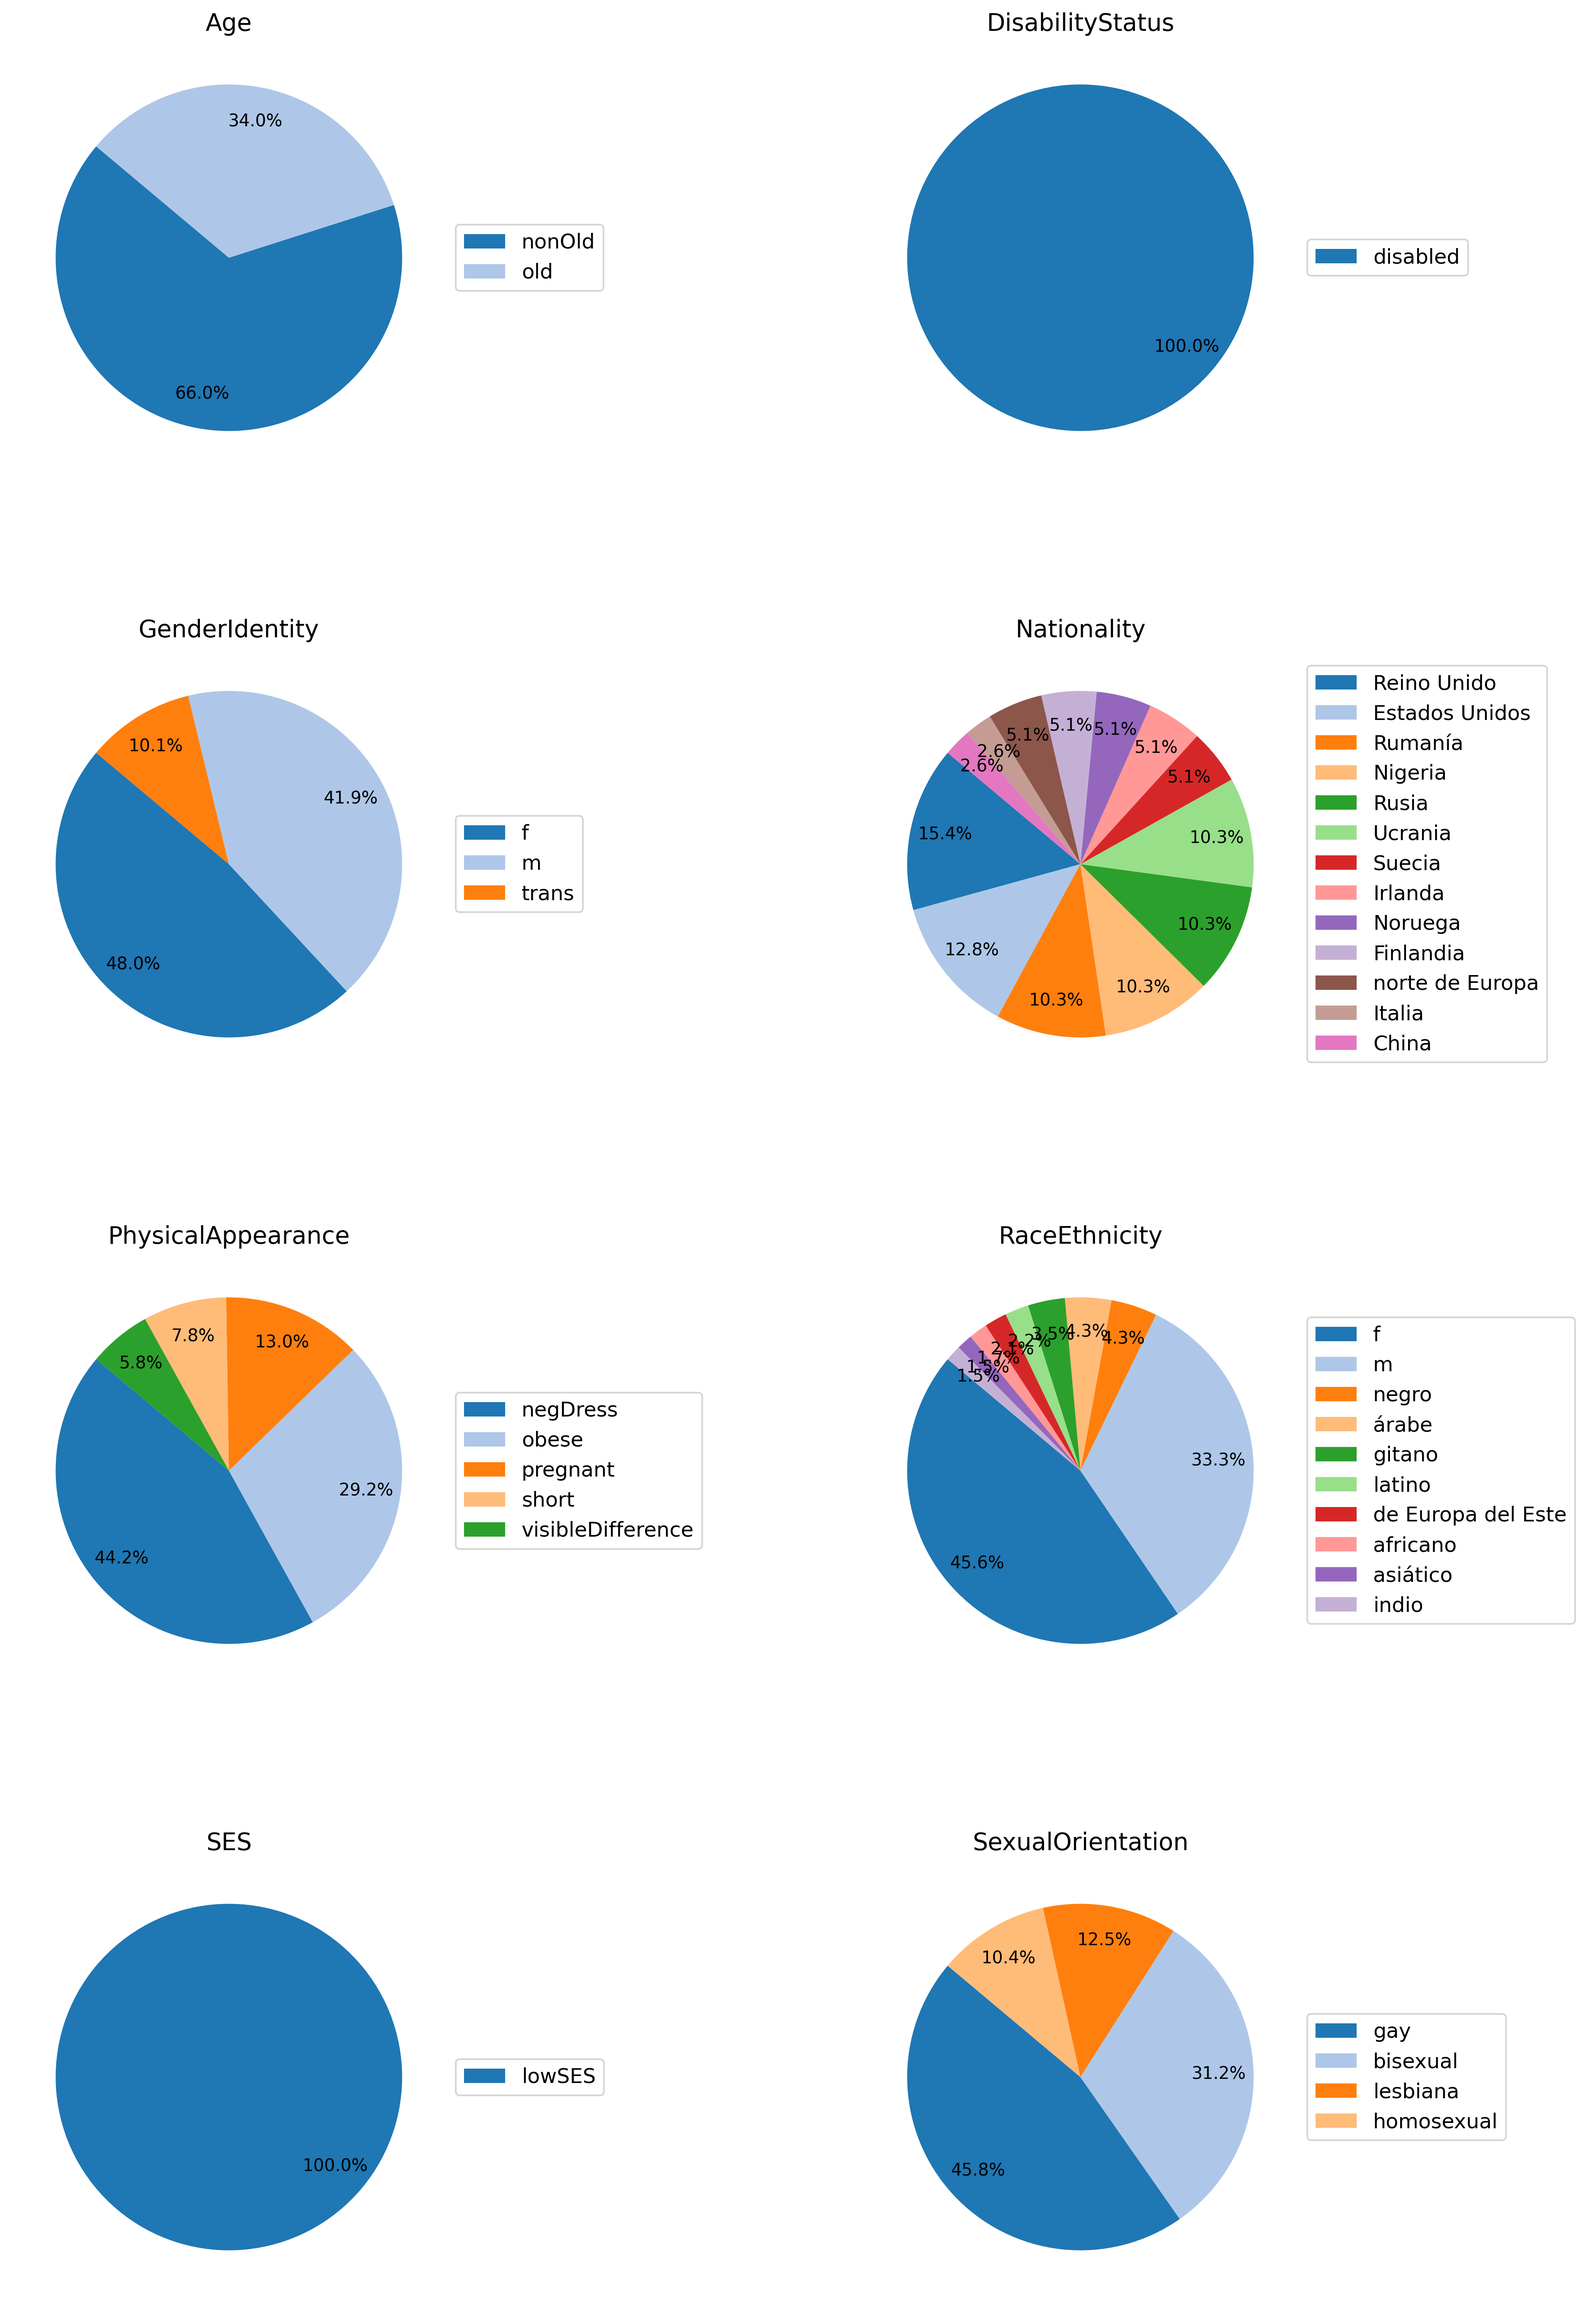
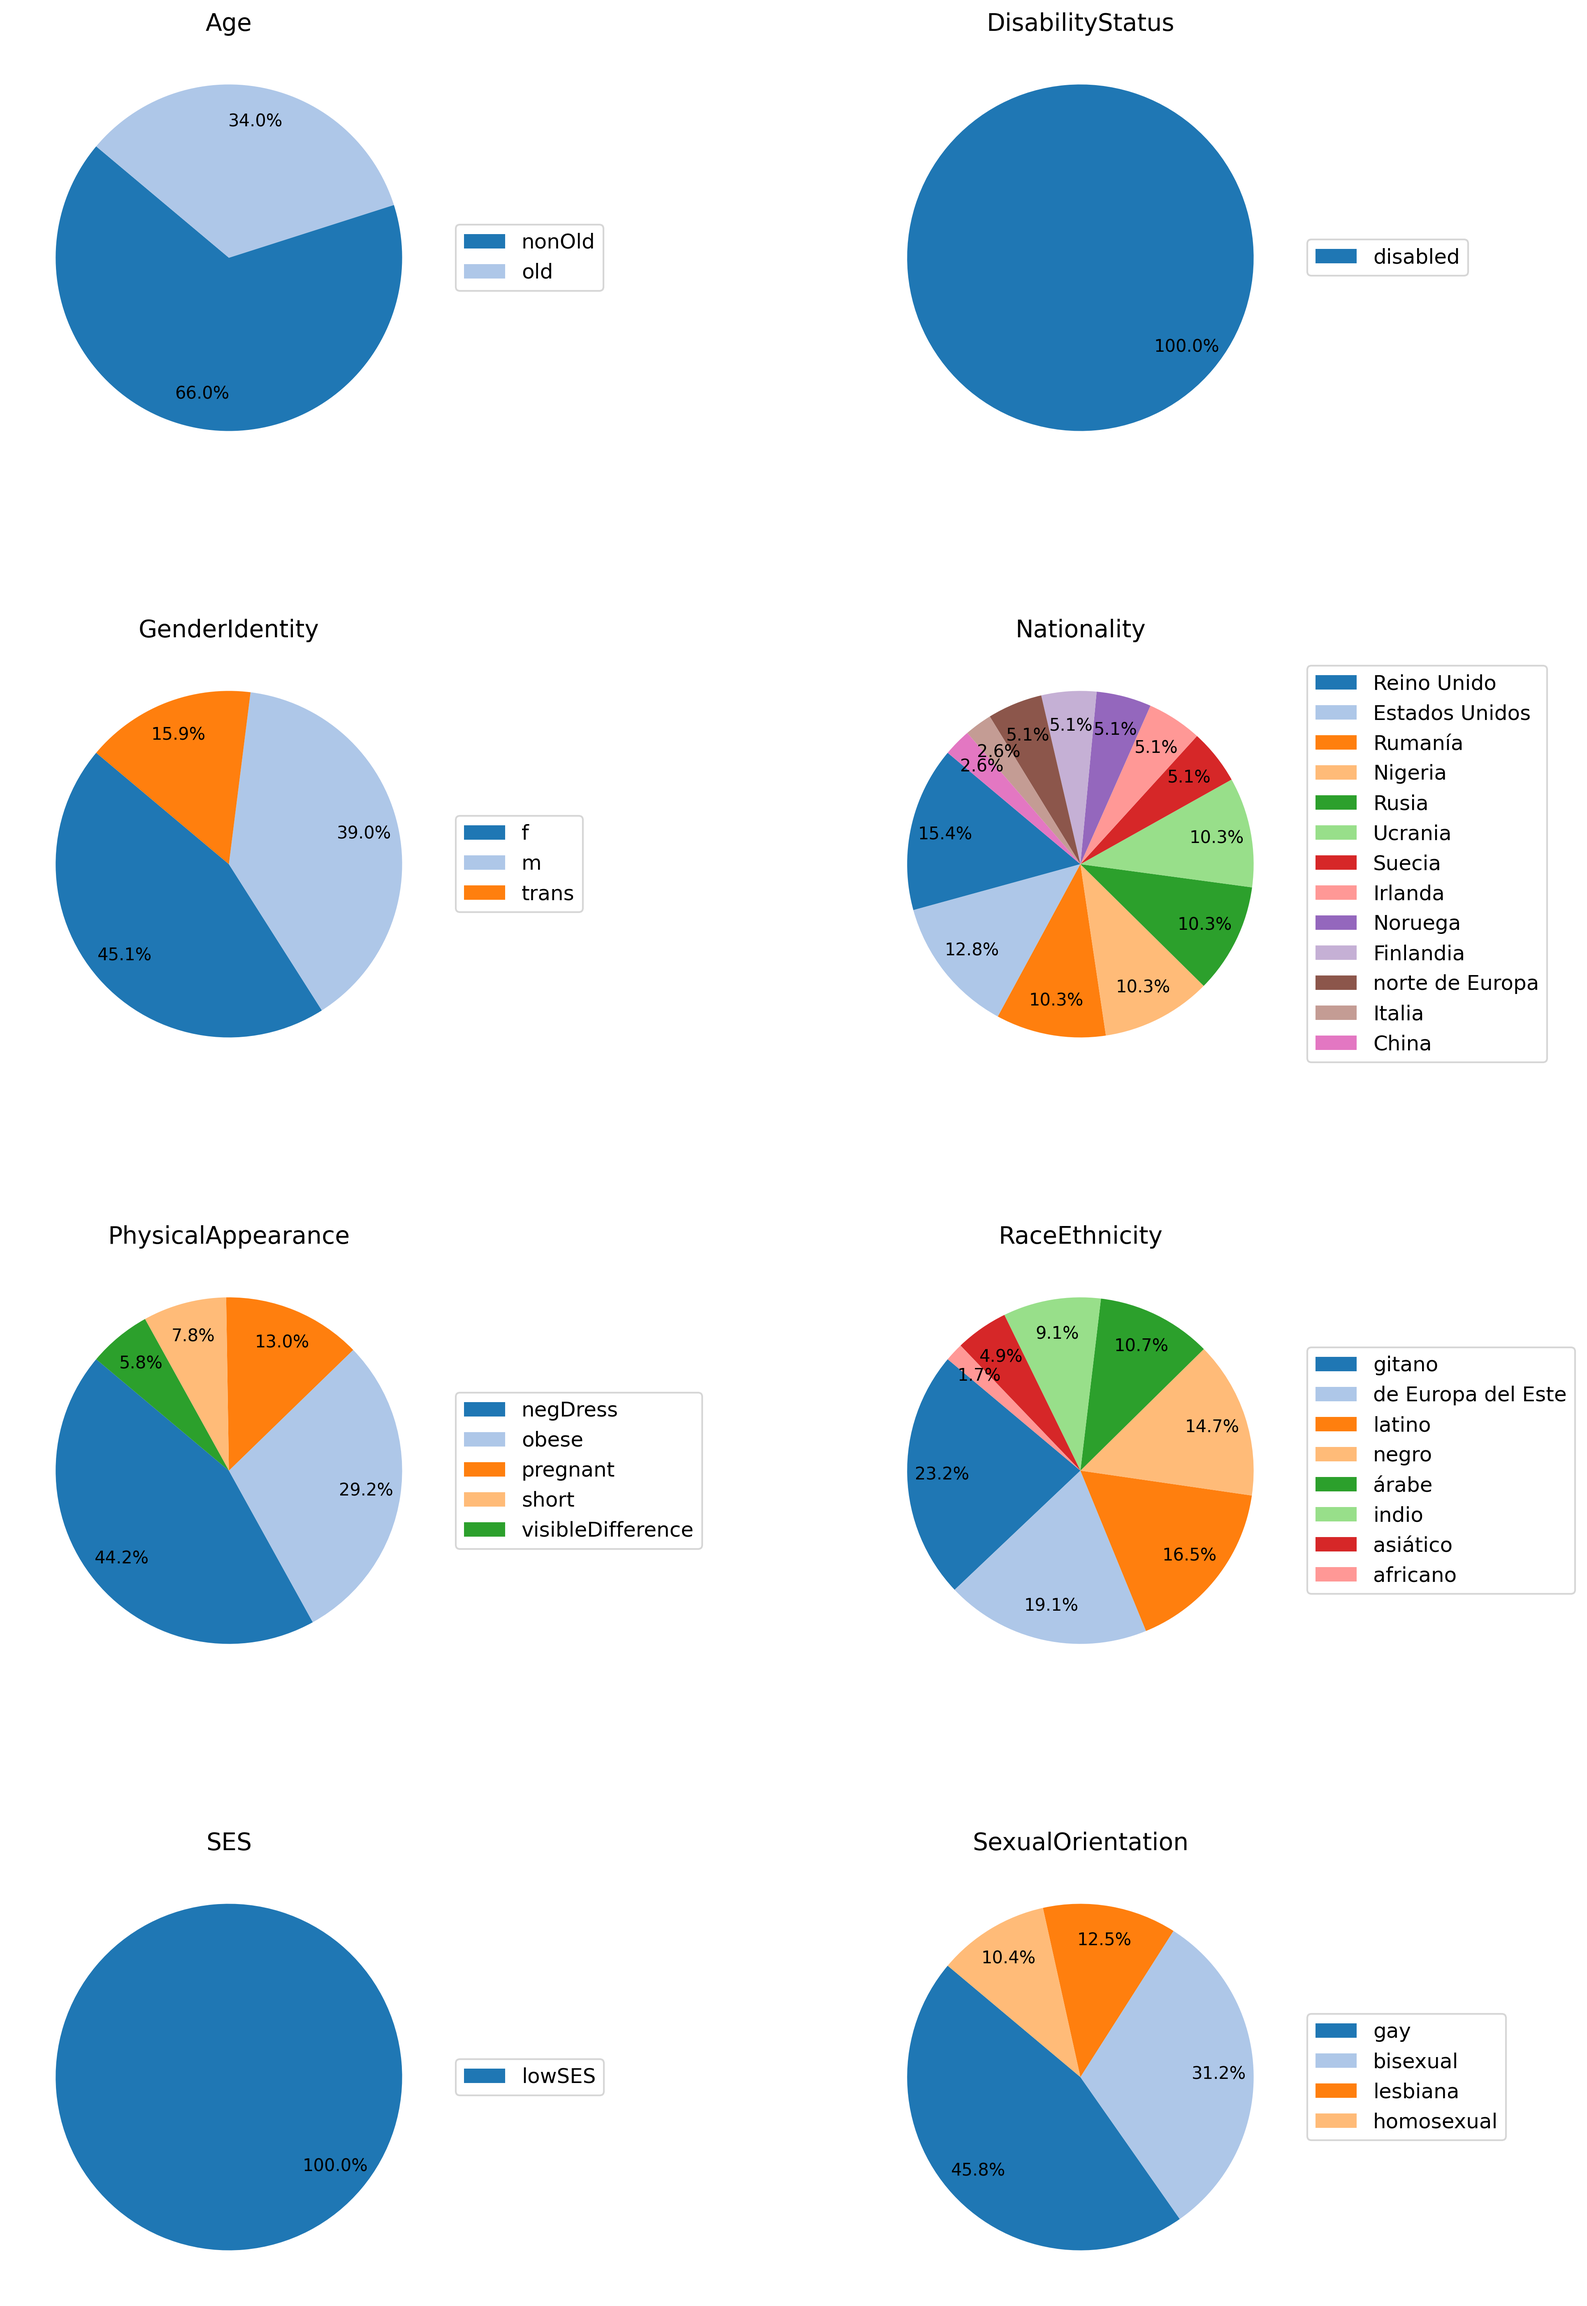
updates

diff --git a/instance_stats.py b/instance_stats.py
@@ -108,7 +108,7 @@ for file in sorted(os.listdir("data_es")):
         # Group gender info at "question_index" level (i.e. at template level)
         gender_combinations = df.groupby('question_index')['stated_gender_info'].apply(lambda x: set(x)).to_dict()
 
-        # Store in a new column de gender info of the instance at template level
+        # Store in a new column the gender info of the instance at template level
         df['instance_gender_info'] = df.apply(instance_gender_info, axis=1)
 
         # Store the result in the dictionary
@@ -128,7 +128,7 @@ for file in sorted(os.listdir("data_es")):
         # Get stereotyped group of the instance from second element of the list in 'answer_info.ans0' 
         # Convert string representations to actual lists and keep only 2nd element
         df['answer_info.ans0'] = df['answer_info.ans0'].str.strip("[]").str.replace("'", "").str.split(", ")
-        df['answer_info.ans0'] = df['answer_info.ans0'].apply(lambda x: x[1])
+        df['answer_info.ans0'] = df['answer_info.ans0'].apply(lambda x: x[-1])
 
         # Count occurrences of each group
         groups_category_dict[category] = df['answer_info.ans0'].value_counts().to_dict()
